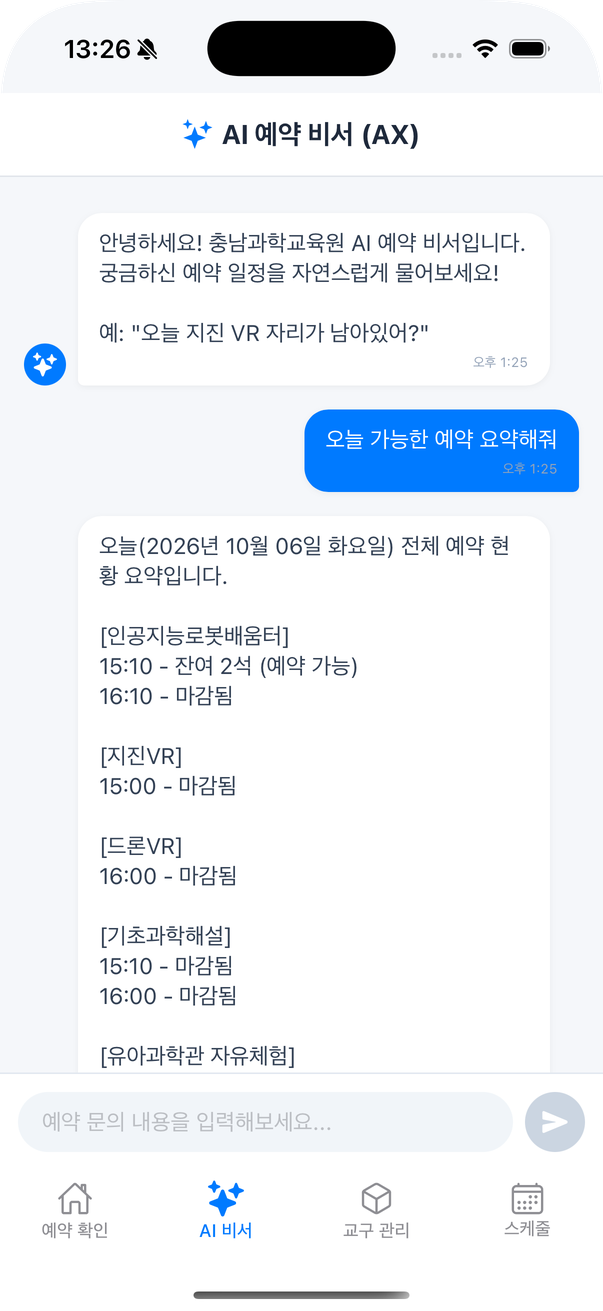
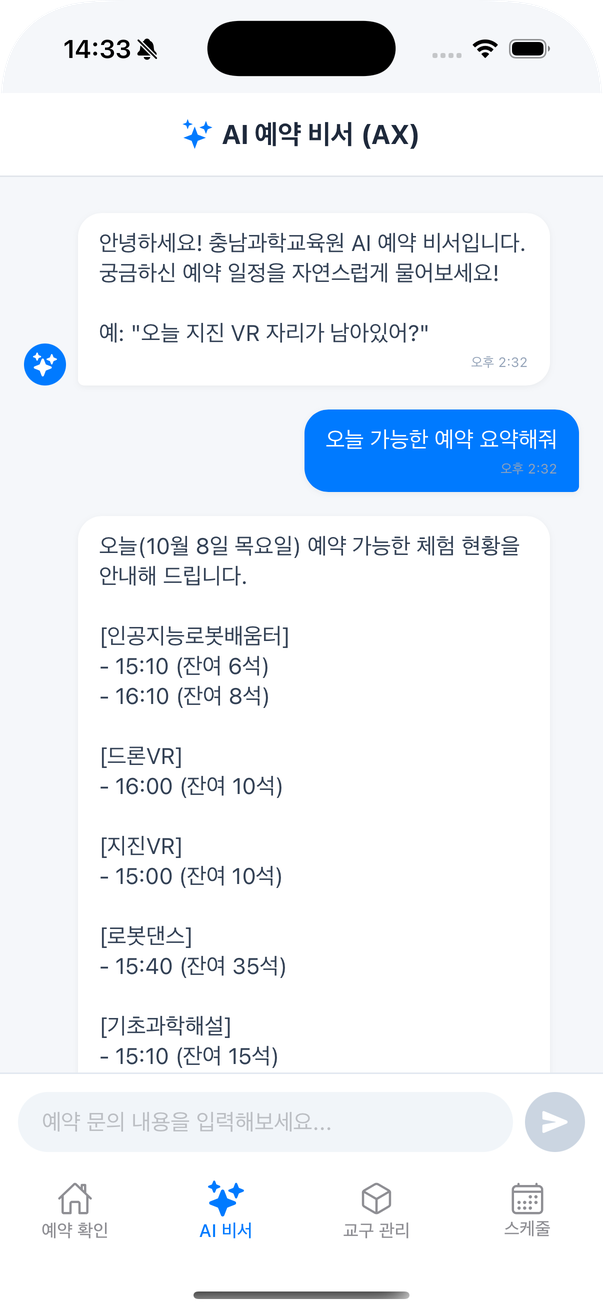
CNSE AI 예약 비서 화면을 10월 8일 판으로 교체
- 잔여석 계산을 고친 뒤 다시 찍은 화면(잔여 6석·8석 등) — 같은 쪽 예약 현황(0/6명)과 맞음
- 자료 2 출처 줄을 캡처 날짜로, 콜로폰 고친 기록 한 줄, 기준일 10월 8일

Claude-Session: https://claude.ai/code/session_017ARdLBiRZYHCAXwJBaKKDB

diff --git a/work/cnse-works/index.html b/work/cnse-works/index.html
@@ -73,10 +73,10 @@
     <div class="full shots">
       <figure><a class="zoom" href="/images/ipp-home.png"><img src="/images/ipp-home.png" width="603" height="1311" loading="lazy" alt="예약 현황 대시보드. 프로그램별 예약 카드가 한 화면에 모여 있다."></a><figcaption>예약 현황을 한 화면에</figcaption></figure>
       <figure><a class="zoom" href="/images/ipp-schedule.png"><img src="/images/ipp-schedule.png" width="603" height="1311" loading="lazy" alt="근무 스케줄 화면. 달력에 날짜별 담당 구역이 자동으로 배정되어 있다."></a><figcaption>세 구역 자동 순환 근무표. 근무자 이름은 모두 가렸다.</figcaption></figure>
-      <figure><a class="zoom" href="/images/ipp-ai.png"><img src="/images/ipp-ai.png" width="603" height="1311" loading="lazy" alt="AI 예약 비서 대화 화면. &#39;오늘 가능한 예약 요약해줘&#39;라고 묻자 프로그램별 시간과 잔여석, 마감 여부를 답했다."></a><figcaption>자연어로 묻는 AI 예약 비서</figcaption></figure>
+      <figure><a class="zoom" href="/images/ipp-ai.png"><img src="/images/ipp-ai.png" width="603" height="1311" loading="lazy" alt="AI 예약 비서 대화 화면. &#39;오늘 가능한 예약 요약해줘&#39;라고 묻자 프로그램별 시간과 잔여석을 답했다."></a><figcaption>자연어로 묻는 AI 예약 비서</figcaption></figure>
       <figure><a class="zoom" href="/images/ipp-kits.png"><img src="/images/ipp-kits.png" width="603" height="1311" loading="lazy" alt="교구 관리 화면. 교구별 수량과 수리 여부, 관리 메모가 보인다."></a><figcaption>교구 수량과 수리 기록</figcaption></figure>
     </div>
-    <p class="full ex-src">2026년 10월 6일 운영 데이터로 찍었다. AI 예약 비서는 13시 25분, 예약 현황은 13시 47분 화면이라 같은 회차의 상태가 다르게 보인다.</p>
+    <p class="full ex-src">운영 데이터로 찍었다. AI 예약 비서는 2026년 10월 8일, 나머지는 10월 6일 화면이다.</p>
   </figure>
 </section>
 
@@ -140,7 +140,7 @@
   <a href="https://github.com/wodnjs2020136144">GitHub</a>
   <a href="/colophon/">이 사이트를 만든 방식</a>
   <a href="/colophon/#fixes">고친 기록</a>
-  <span>2026년 10월 7일 기준</span>
+  <span>2026년 10월 8일 기준</span>
 </div></footer>
 </body>
 </html>

diff --git a/colophon/index.html b/colophon/index.html
@@ -61,6 +61,7 @@
       <li><time>2026.10.06</time><span>시세 예측, 주문 요약 API, 학습 저장소에 실행 화면을 더했다.</span></li>
       <li><time>2026.10.06</time><span>검토를 받아 근무표 이름을 모두 가리고, 팀원 몫과 내 몫의 경계를 문장에 밝혔다.</span></li>
       <li><time>2026.10.07</time><span>홈에 사진을 더했다.</span></li>
+      <li><time>2026.10.08</time><span>예약 앱의 잔여석 계산을 고친 뒤 AI 예약 비서 화면을 다시 찍어 바꿨다.</span></li>
     </ol>
 
     <h2 class="later">저장소</h2>
@@ -74,7 +75,7 @@
   <a href="https://github.com/wodnjs2020136144">GitHub</a>
   <a href="/colophon/">이 사이트를 만든 방식</a>
   <a href="/colophon/#fixes">고친 기록</a>
-  <span>2026년 10월 7일 기준</span>
+  <span>2026년 10월 8일 기준</span>
 </div></footer>
 </body>
 </html>

diff --git a/index.html b/index.html
@@ -209,7 +209,7 @@
   <a href="https://github.com/wodnjs2020136144">GitHub</a>
   <a href="/colophon/">이 사이트를 만든 방식</a>
   <a href="/colophon/#fixes">고친 기록</a>
-  <span>2026년 10월 7일 기준</span>
+  <span>2026년 10월 8일 기준</span>
 </div></footer>
 </body>
 </html>

diff --git a/work/agritics/index.html b/work/agritics/index.html
@@ -140,7 +140,7 @@
   <a href="https://github.com/wodnjs2020136144">GitHub</a>
   <a href="/colophon/">이 사이트를 만든 방식</a>
   <a href="/colophon/#fixes">고친 기록</a>
-  <span>2026년 10월 7일 기준</span>
+  <span>2026년 10월 8일 기준</span>
 </div></footer>
 </body>
 </html>

diff --git a/work/eyewavevr/index.html b/work/eyewavevr/index.html
@@ -151,7 +151,7 @@
   <a href="https://github.com/wodnjs2020136144">GitHub</a>
   <a href="/colophon/">이 사이트를 만든 방식</a>
   <a href="/colophon/#fixes">고친 기록</a>
-  <span>2026년 10월 7일 기준</span>
+  <span>2026년 10월 8일 기준</span>
 </div></footer>
 </body>
 </html>

diff --git a/work/helpdesk/index.html b/work/helpdesk/index.html
@@ -171,7 +171,7 @@
   <a href="https://github.com/wodnjs2020136144">GitHub</a>
   <a href="/colophon/">이 사이트를 만든 방식</a>
   <a href="/colophon/#fixes">고친 기록</a>
-  <span>2026년 10월 7일 기준</span>
+  <span>2026년 10월 8일 기준</span>
 </div></footer>
 </body>
 </html>

diff --git a/work/nurse-handover/index.html b/work/nurse-handover/index.html
@@ -159,7 +159,7 @@
   <a href="https://github.com/wodnjs2020136144">GitHub</a>
   <a href="/colophon/">이 사이트를 만든 방식</a>
   <a href="/colophon/#fixes">고친 기록</a>
-  <span>2026년 10월 7일 기준</span>
+  <span>2026년 10월 8일 기준</span>
 </div></footer>
 </body>
 </html>

diff --git a/work/review-gate/index.html b/work/review-gate/index.html
@@ -126,7 +126,7 @@
   <a href="https://github.com/wodnjs2020136144">GitHub</a>
   <a href="/colophon/">이 사이트를 만든 방식</a>
   <a href="/colophon/#fixes">고친 기록</a>
-  <span>2026년 10월 7일 기준</span>
+  <span>2026년 10월 8일 기준</span>
 </div></footer>
 </body>
 </html>
